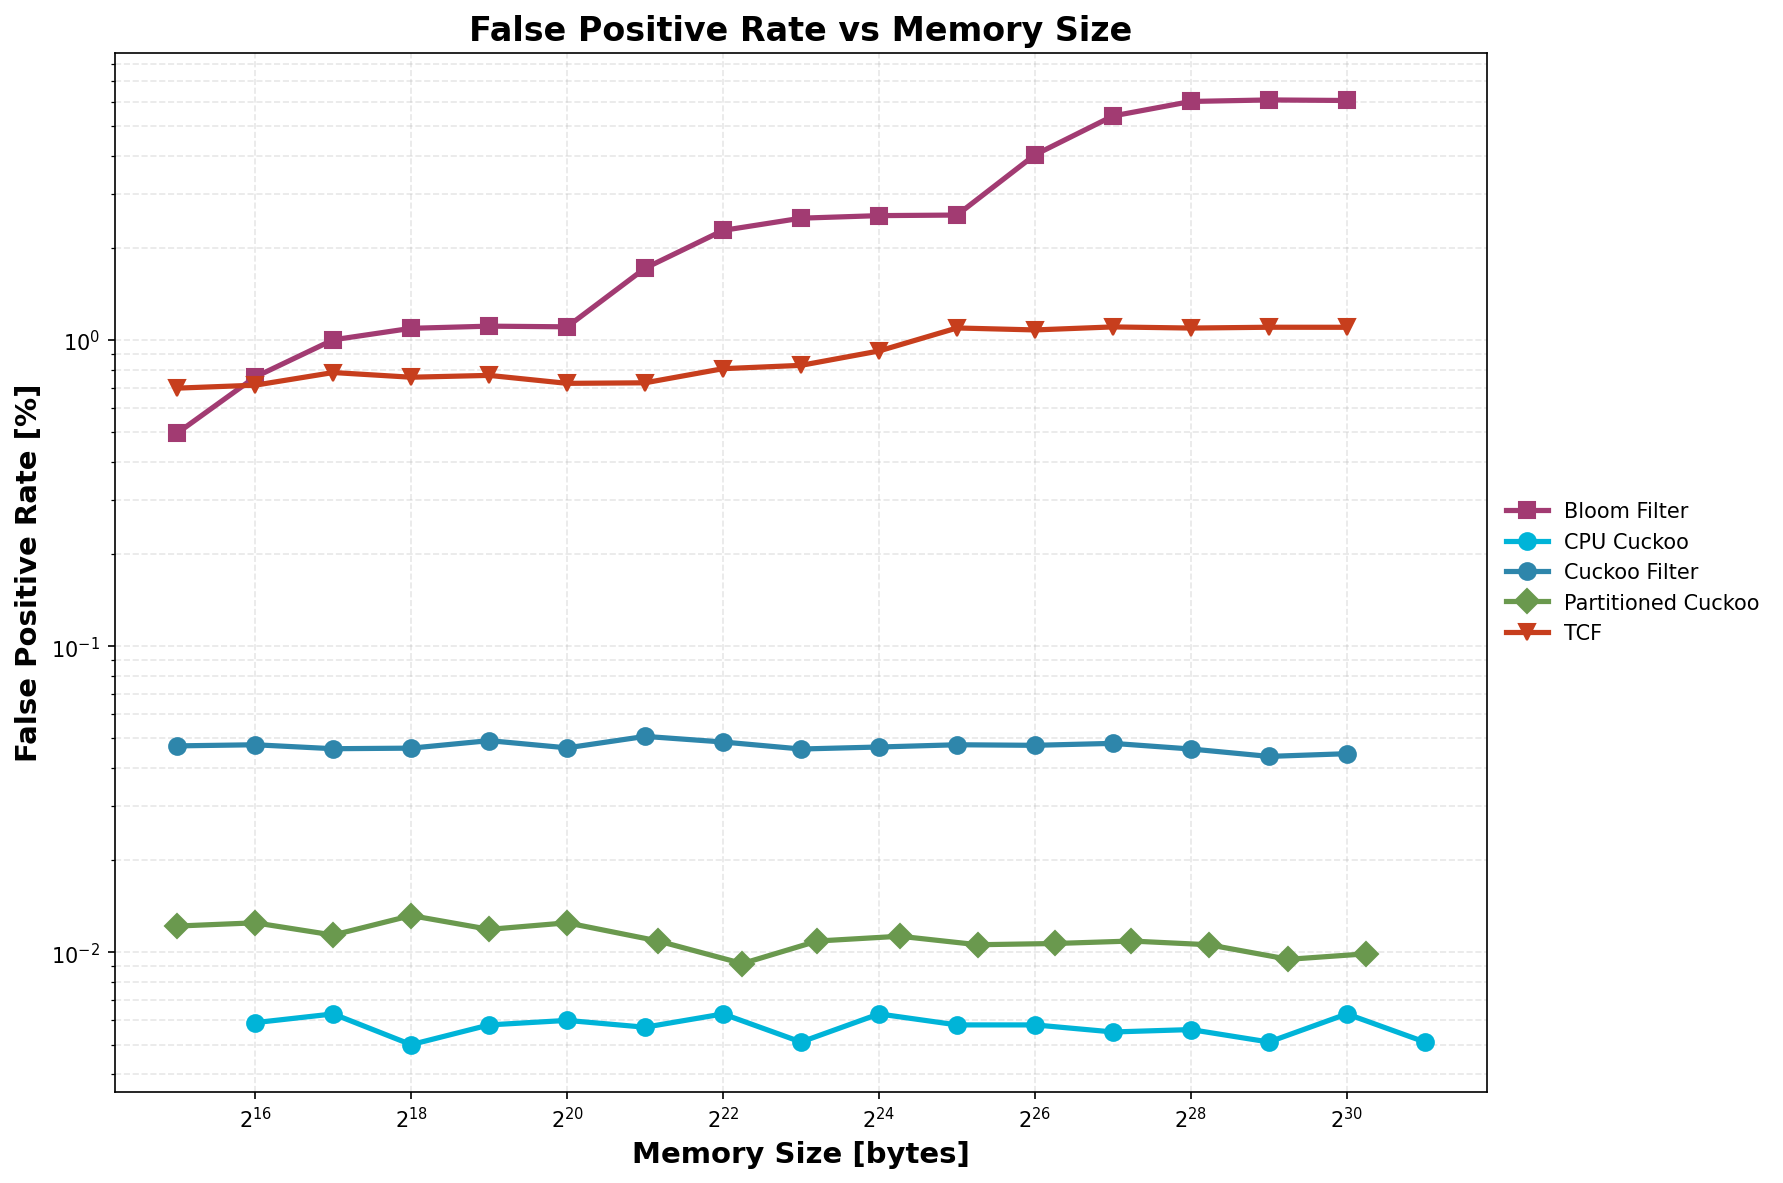
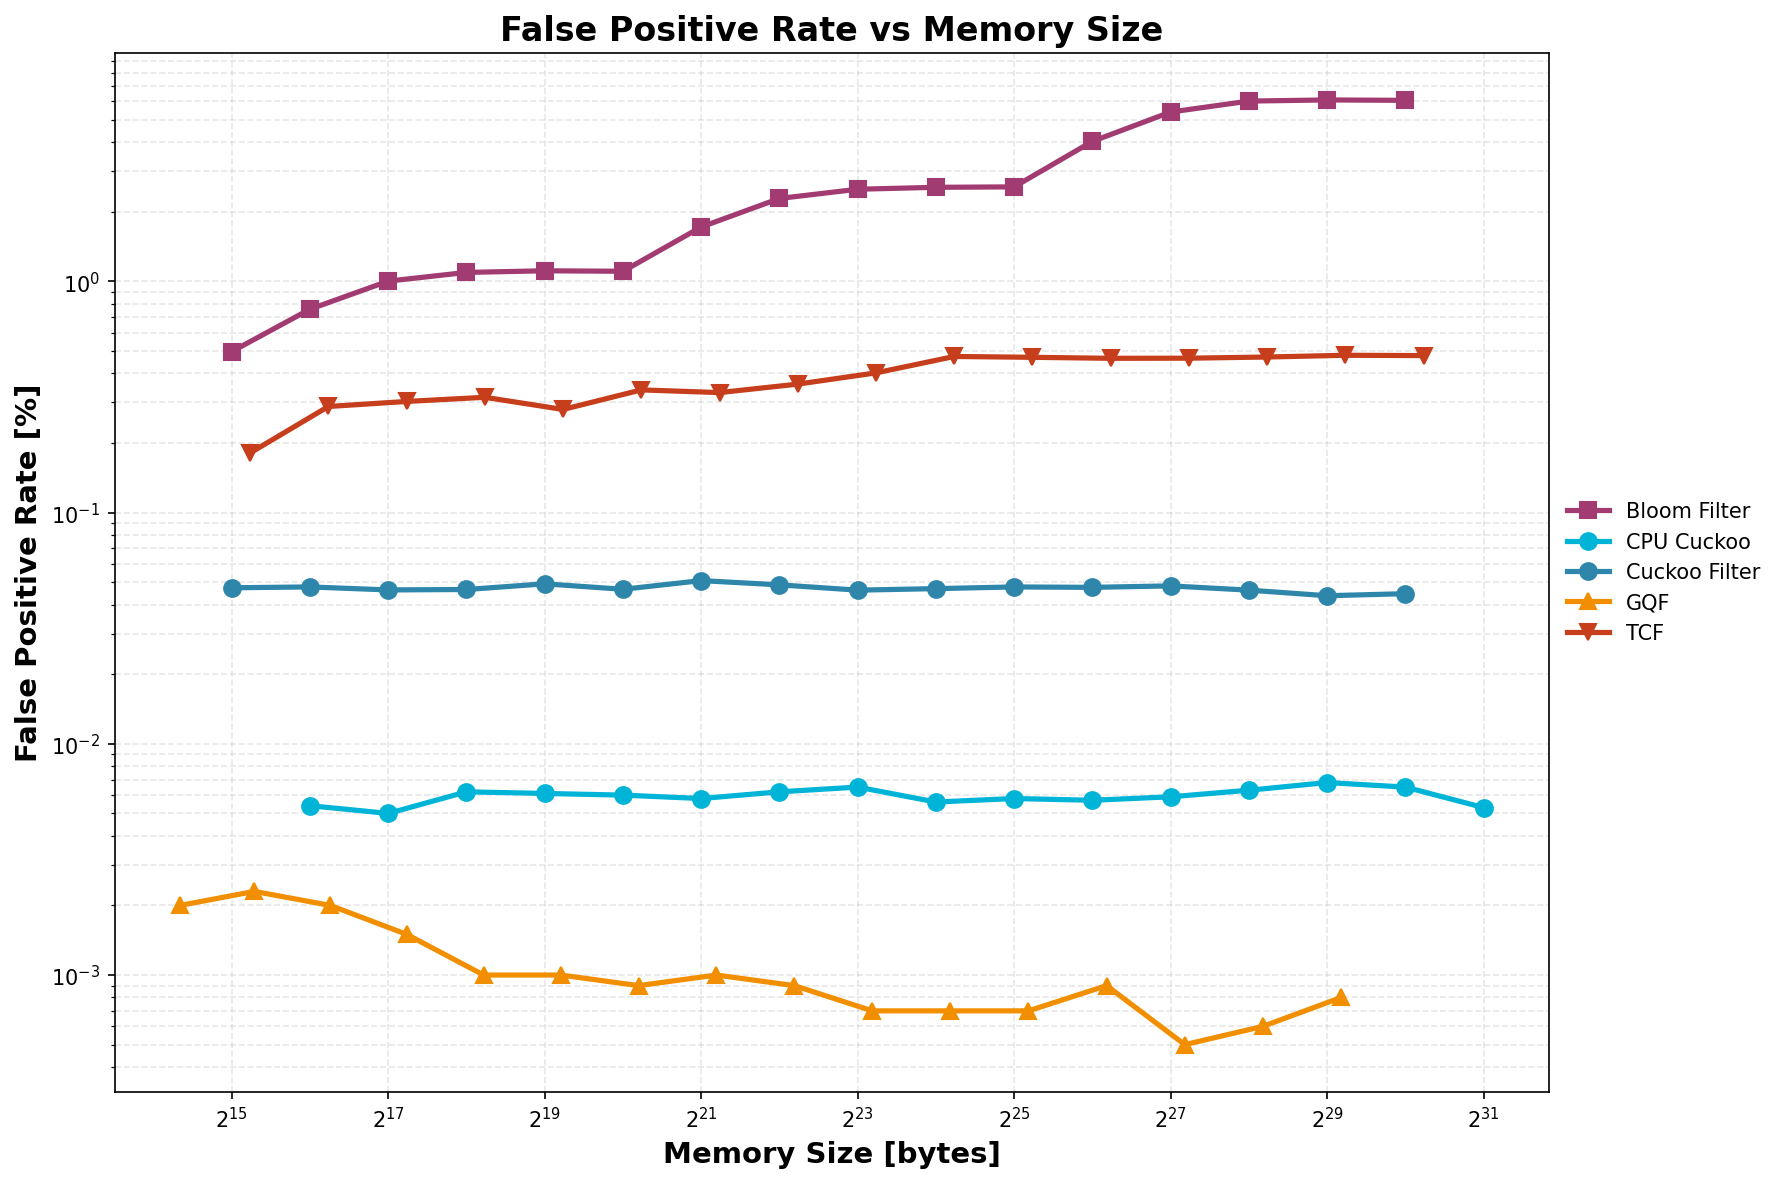
new gqf impl

diff --git a/content/chapter-evaluation.tex b/content/chapter-evaluation.tex
@@ -18,7 +18,7 @@ To provide a comprehensive analysis, the proposed GPU Cuckoo filter is compared 
 
   \item \textbf{Optimized Partitioned CPU Cuckoo Filter}: A custom implementation utilizing multithreading (one thread per partition) to maximize CPU throughput without the overhead of SIMD instructions, which were found to degrade performance in this specific context. \cite{partitioned-cuckoo}
 
-  \item \textbf{GPU Quotient Filter}: Included for a basic comparison. Note that its restrictive parameterization makes it largely unsuitable for the massive batch use-cases targeted by this thesis. \cite{gpu-qf}
+  \item \textbf{GPU Counting Quotient Filter (GQF)}: A highly space-efficient probabilistic data structure sourced from the same study as the TCF. This implementation utilizes efficient rank-and-select primitives to minimize metadata overhead and supports counting, resizing, and deletions. \cite{tcf}
 
   \item \textbf{Bulk Two-Choice Filter (TCF)}: A modern, GPU-focused AMQ data structure that serves as a direct competitor. \cite{tcf}
 \end{itemize}
@@ -99,11 +99,13 @@ To evaluate the reliability of the implemented filters, the empirical false-posi
 \subsection{Analysis}
 
 \begin{itemize}
-  \item \textbf{Blocked Bloom Filter}: The Blocked Bloom filter demonstrates the highest false-positive rate among all tested structures. This is a known characteristic of the blocked design, partitioning the bit array into small, fixed-size blocks prevents the "averaging" of hash collisions across the entire filter. As a result, a few heavily congested blocks can disproportionately skew the overall error rate. Notably, it is the only filter where the false-positive rate actively degrades as the total memory size increases, indicating poor scalability in terms of accuracy for massive datasets.
+  \item \textbf{Blocked Bloom Filter}: The Blocked Bloom filter demonstrates the highest false-positive rate among all tested structures, ranging from approximately 0.5\% to over 4\%. This is a known characteristic of the blocked design, partitioning the bit array into small, fixed-size blocks prevents the "averaging" of hash collisions across the entire filter. Consequently, a few heavily congested blocks can disproportionately skew the overall error rate. It is notably the only filter where the false-positive rate actively degrades as the total memory size increases.
 
-  \item \textbf{CPU vs. GPU Cuckoo Filters}: A clear distinction is visible between the CPU and GPU Cuckoo filter implementations. The CPU versions (both standard and partitioned) achieve the lowest false-positive rates, hovering near 0.005\% and 0.01\% respectively. The GPU Cuckoo filter, while still highly accurate, exhibits a higher rate of approximately 0.045\%. This difference is a direct consequence of the bucket size trade-off discussed in Section \ref{sec:eval:bucket-size}. To maximize parallel throughput, the GPU implementation uses a bucket size of 16, whereas the CPU versions use a standard bucket size of 4. As established in Equation \ref{eq:cuckoo-space-bound}, a larger bucket size linearly increases the collision probability for a fixed fingerprint size.
+  \item \textbf{Quotient Filter Accuracy}: The GPU Counting Quotient Filter (GQF) exhibits the lowest false-positive rate among all candidates, maintaining an error rate between 0.001\% and 0.002\%. This confirms the theoretical space efficiency of quotient filters, which handle collisions via Robin Hood hashing and metadata encoding rather than the probabilistic bucket overflow mechanisms found in Cuckoo filters.
 
-  \item \textbf{Comparison with Other GPU Filters}: Despite the trade-off required for throughput, the GPU Cuckoo filter maintains the lowest false-positive rate among the GPU-accelerated candidates. It significantly outperforms the Bulk Two-Choice Filter (TCF), which exhibits an error rate an order of magnitude higher (around 0.7\% - 1.1\%). This confirms that the Cuckoo filter's design offers a superior balance of speed and accuracy for high-performance GPU applications.
+  \item \textbf{CPU vs. GPU Cuckoo Filters}: A distinction remains visible between the CPU and GPU Cuckoo filter implementations. The CPU version achieves a very low false-positive rate, hovering near 0.005\%. The GPU Cuckoo filter, while still highly accurate, exhibits a slightly higher rate of approximately 0.045\%. This difference is a direct consequence of the bucket size trade-off discussed in Section \ref{sec:eval:bucket-size}. To maximize parallel throughput, the GPU implementation uses a bucket size of 16, whereas the CPU versions use a standard bucket size of 4. As established in Equation \ref{eq:cuckoo-space-bound}, a larger bucket size linearly increases the collision probability for a fixed fingerprint size.
+
+  \item \textbf{Comparison with TCF}: The GPU Cuckoo filter significantly outperforms the Bulk Two-Choice Filter (TCF) regarding accuracy. The TCF exhibits an error rate roughly an order of magnitude higher (ranging between 0.2\% and 0.5\%). While the TCF is more accurate than the Blocked Bloom filter, the Cuckoo filter and GQF designs offer a superior balance of accuracy and retrievability for this workload.
 \end{itemize}
 
 \section{Cache Efficiency}
